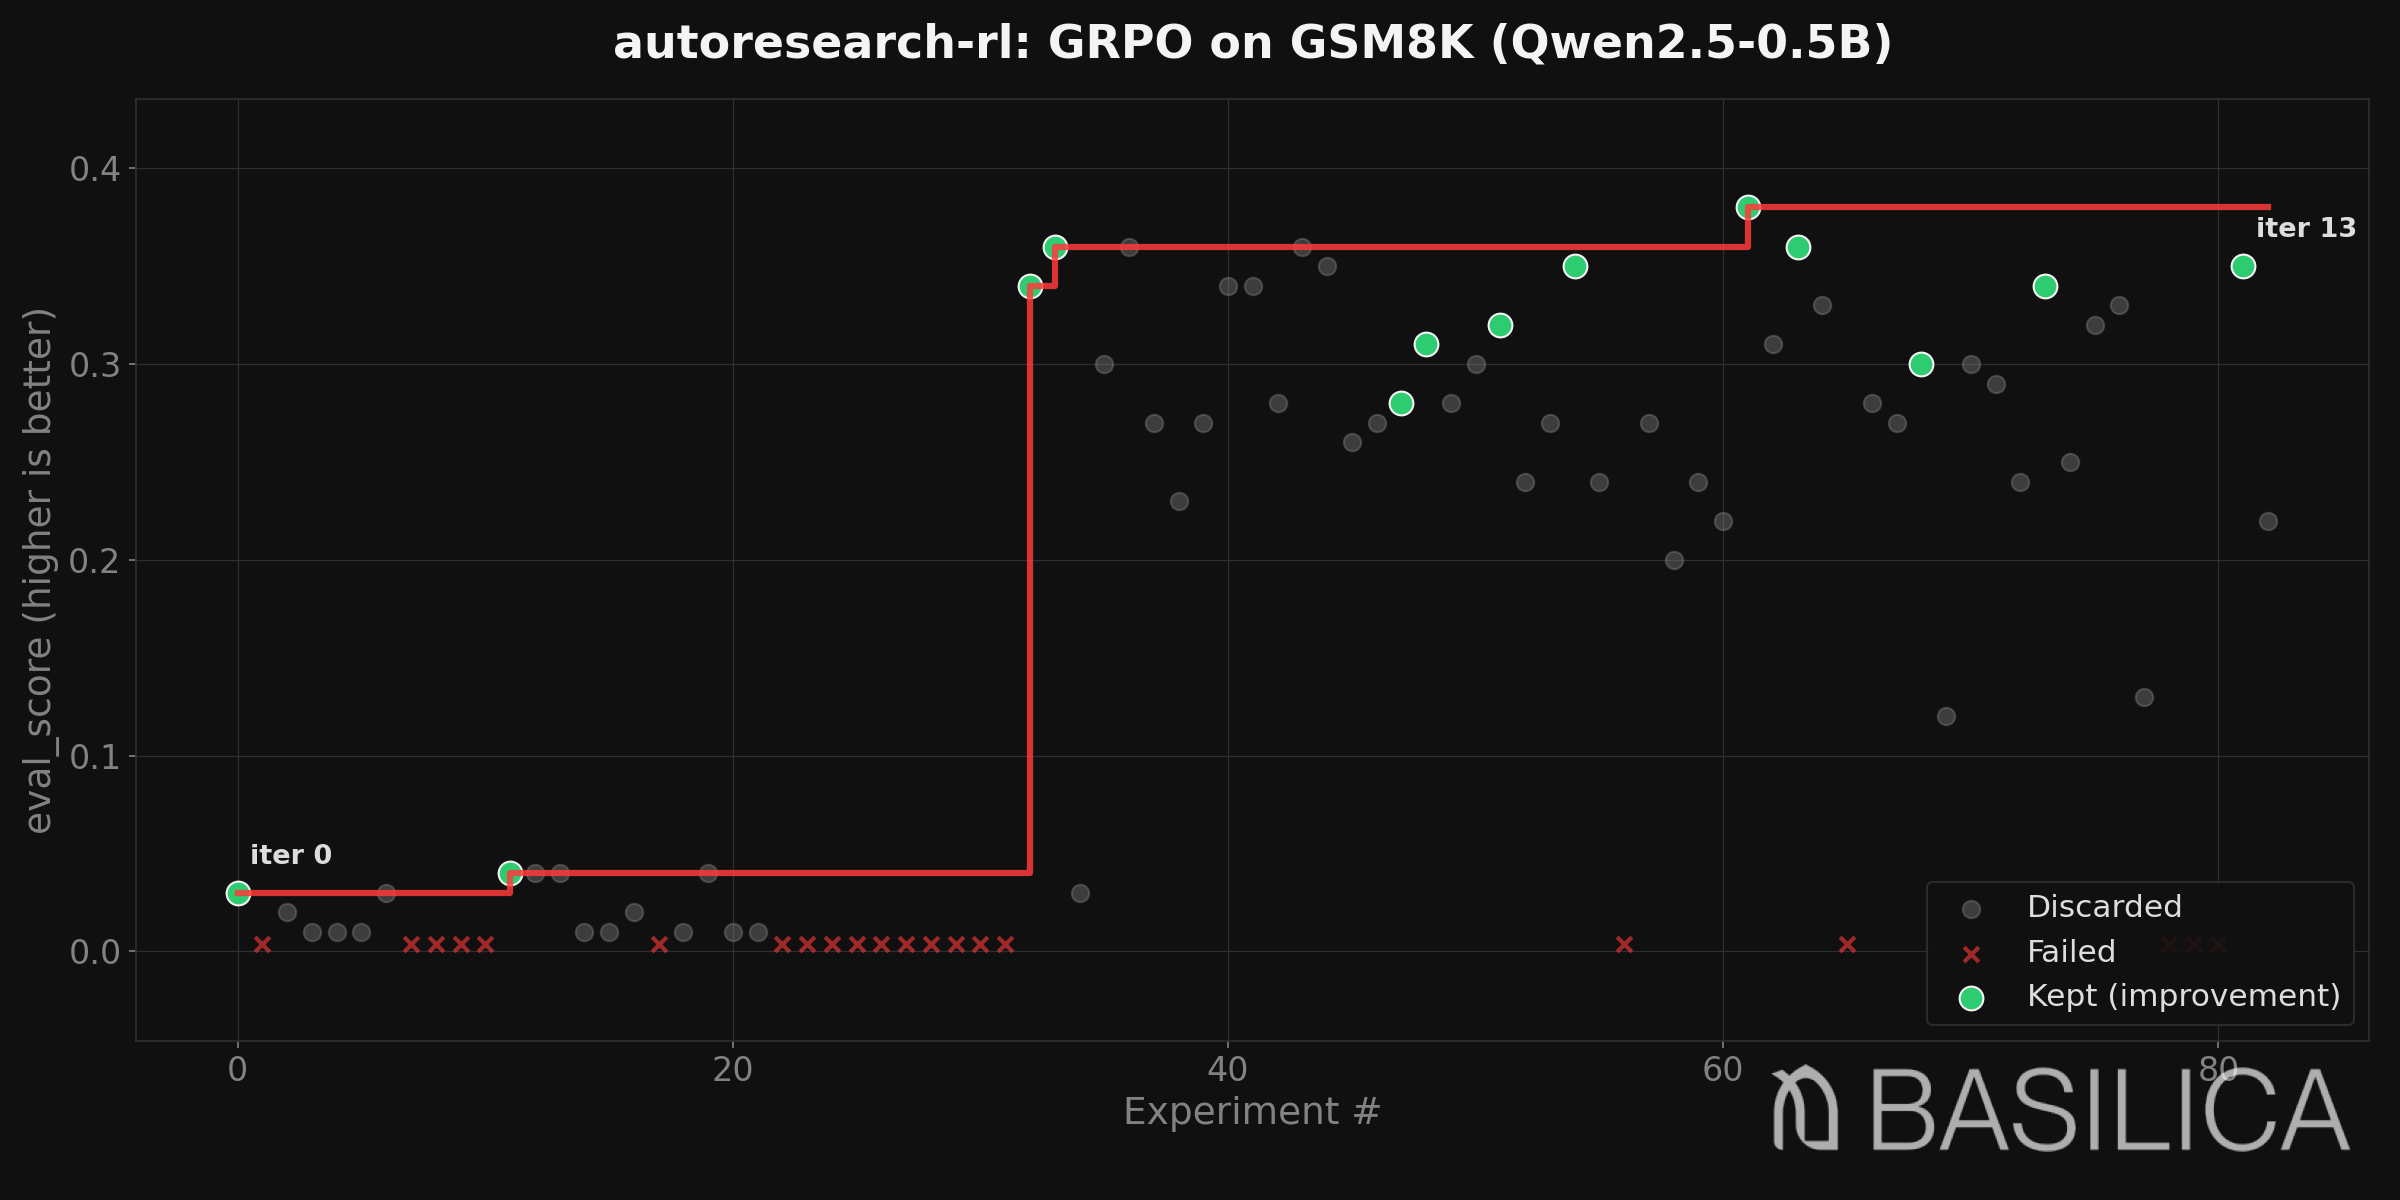
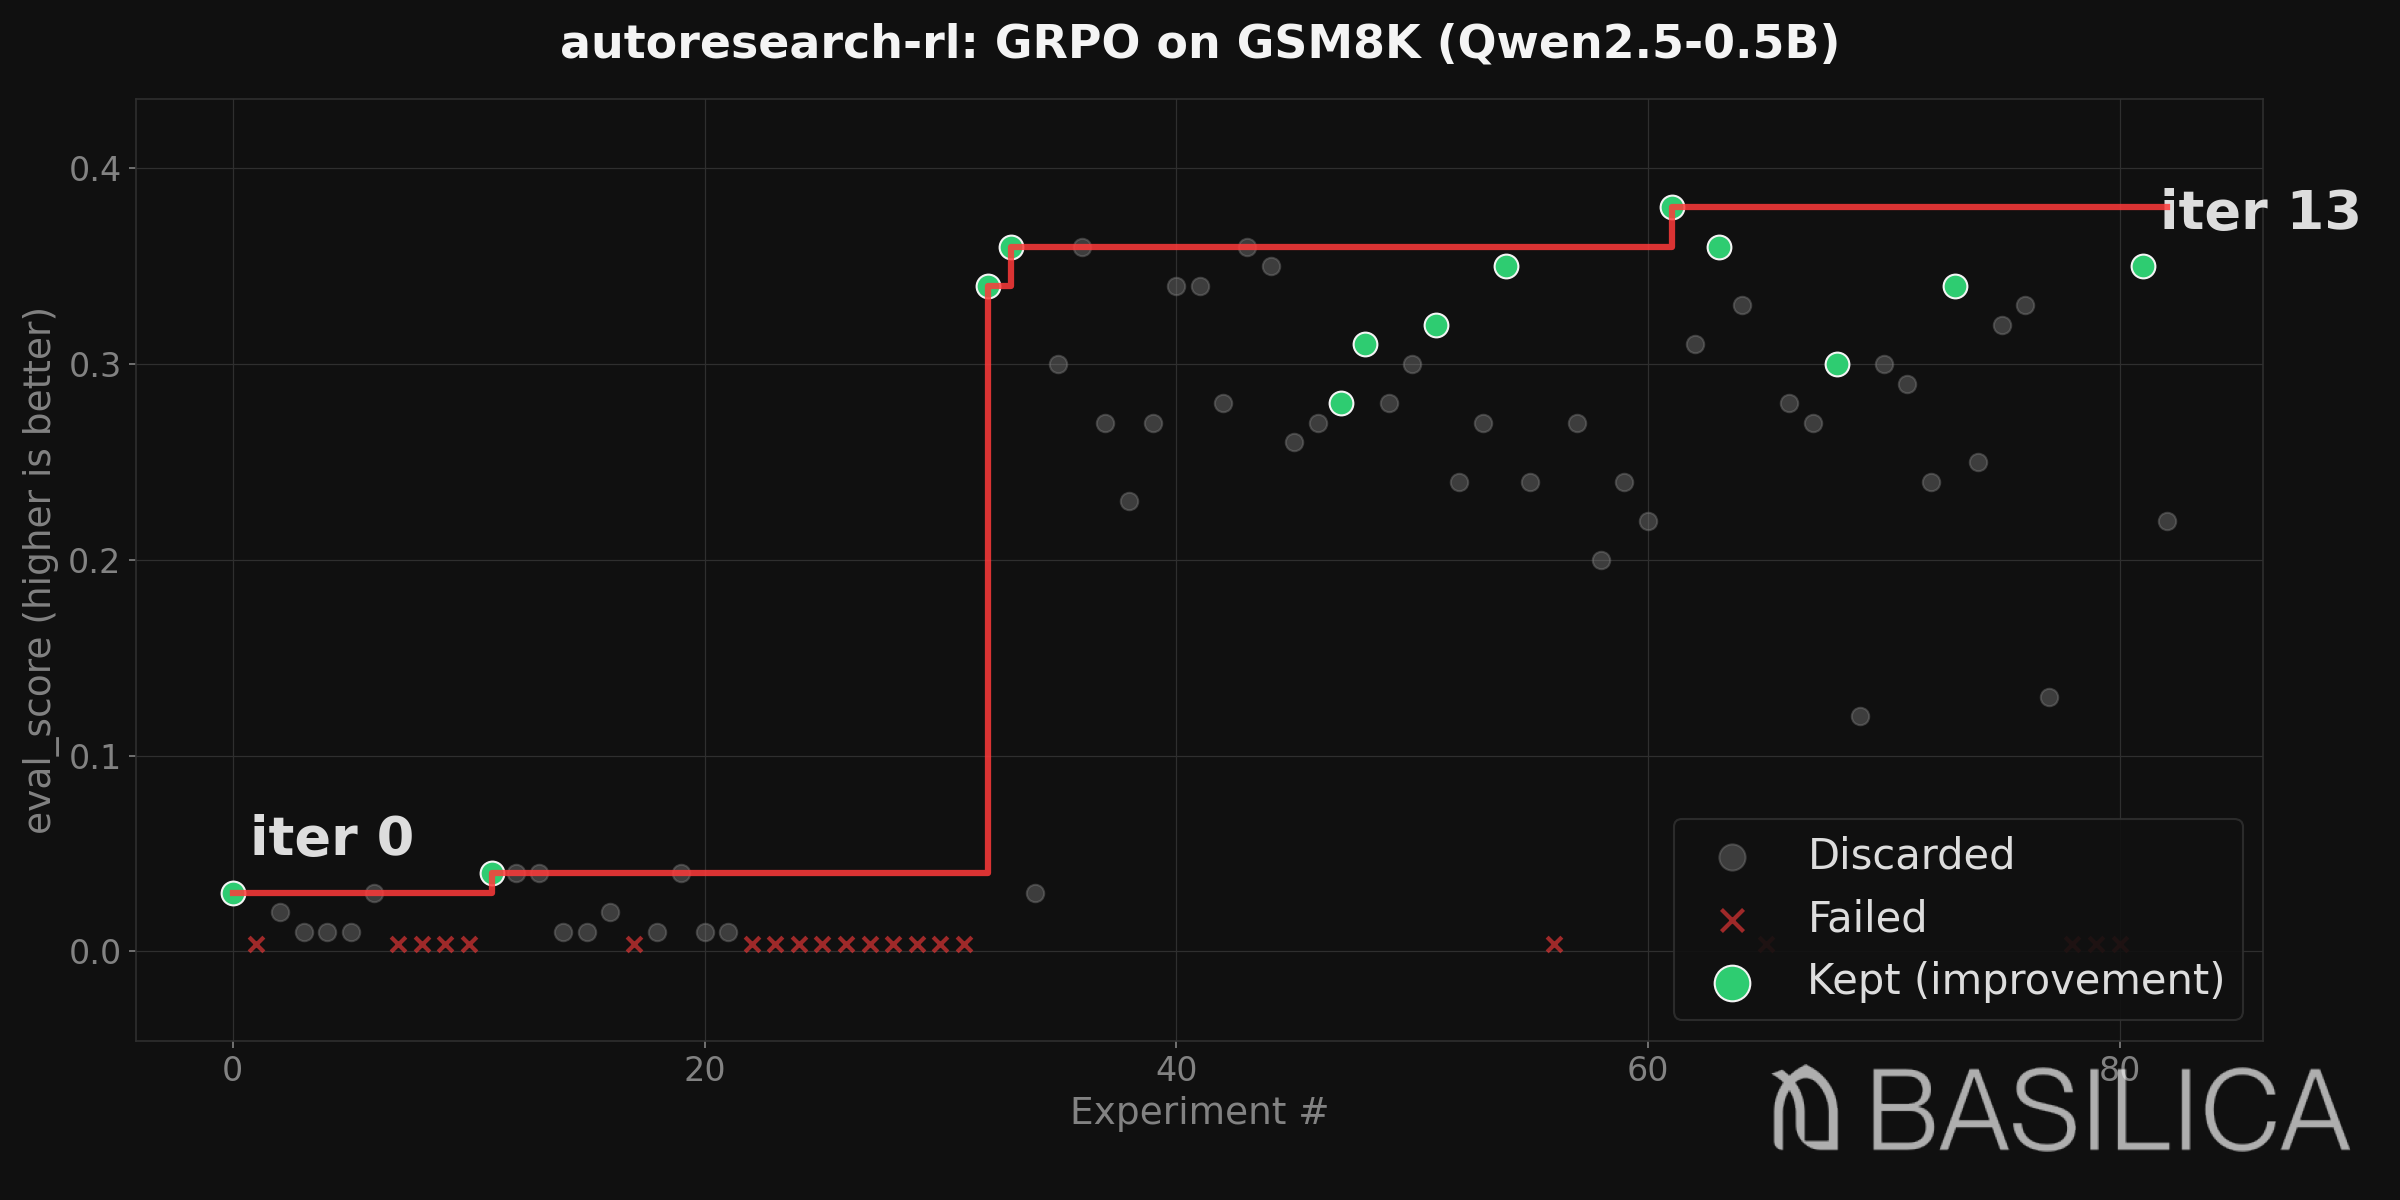
style: 2x datapoint labels and larger legend for mobile

diff --git a/scripts/progress_chart.py b/scripts/progress_chart.py
@@ -175,8 +175,8 @@ def plot_progress(
             row = rows[xi]
             ax.annotate(
                 f"iter {row.iter}", (xi, yi),
-                textcoords="offset points", xytext=(6, 14),
-                fontsize=13, color=WHT100ALT, fontweight="bold",
+                textcoords="offset points", xytext=(8, 18),
+                fontsize=26, color=WHT100ALT, fontweight="bold",
             )
 
     n_total = len(rows)
@@ -195,8 +195,8 @@ def plot_progress(
 
     legend = ax.legend(
         loc="upper right" if direction == "min" else "lower right",
-        fontsize=15, framealpha=0.9, edgecolor=BLK800,
-        facecolor=BLK1000,
+        fontsize=20, framealpha=0.9, edgecolor=BLK800,
+        facecolor=BLK1000, markerscale=1.5,
     )
     for text in legend.get_texts():
         text.set_color(WHT100ALT)
